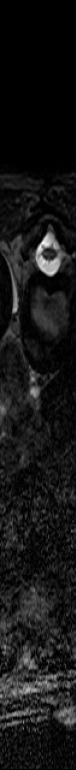
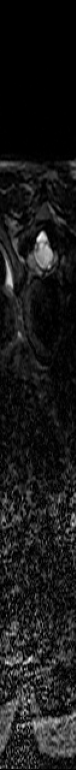
update

diff --git a/web_annotation/app.py b/web_annotation/app.py
@@ -16,16 +16,24 @@ os.makedirs(IMAGES_FOLDER, exist_ok=True)
 app.config['UPLOAD_FOLDER'] = UPLOAD_FOLDER
 app.config['IMAGES_FOLDER'] = IMAGES_FOLDER
 
-def process_nifti(filepath, output_dir):
+def process_nifti(filepath, output_dir, slice_x=None, slice_y=None, slice_z=None):
     """处理NIfTI文件并生成图像"""
     # 加载NIfTI文件
     img = nib.load(filepath)
     data = img.get_fdata()
     
-    # 获取中间切片
-    slice_x = data.shape[0] // 2
-    slice_y = data.shape[1] // 2
-    slice_z = data.shape[2] // 2
+    # 如果没有提供切片索引，则使用中间切片
+    if slice_x is None:
+        slice_x = data.shape[0] // 2
+    if slice_y is None:
+        slice_y = data.shape[1] // 2
+    if slice_z is None:
+        slice_z = data.shape[2] // 2
+    
+    # 确保切片索引在有效范围内
+    slice_x = max(0, min(slice_x, data.shape[0] - 1))
+    slice_y = max(0, min(slice_y, data.shape[1] - 1))
+    slice_z = max(0, min(slice_z, data.shape[2] - 1))
     
     # 生成三个方向的切片图像
     slices = [
@@ -57,7 +65,34 @@ def process_nifti(filepath, output_dir):
         image_paths.append(filename)
         slice_indices.append(slice_index)
     
-    return image_paths, slice_indices
+    return image_paths, slice_indices, [data.shape[0], data.shape[1], data.shape[2]]
+
+@app.route('/update_slice', methods=['POST'])
+def update_slice():
+    """更新切片索引并返回新图像"""
+    data = request.json
+    filename = data.get('filename')
+    slice_x = int(data.get('slice_x'))
+    slice_y = int(data.get('slice_y'))
+    slice_z = int(data.get('slice_z'))
+    
+    filepath = os.path.join(app.config['UPLOAD_FOLDER'], filename)
+    if not os.path.exists(filepath):
+        return jsonify({'error': '文件不存在'})
+    
+    # 处理NIfTI文件并生成新图像
+    image_paths, slice_indices, _ = process_nifti(
+        filepath, 
+        app.config['IMAGES_FOLDER'],
+        slice_x=slice_x,
+        slice_y=slice_y,
+        slice_z=slice_z
+    )
+    
+    return jsonify({
+        'images': image_paths,
+        'slice_indices': slice_indices
+    })
 
 @app.route('/', methods=['GET', 'POST'])
 def index():
@@ -74,7 +109,7 @@ def index():
             file.save(filename)
             
             # 处理NIfTI文件并生成图像
-            image_paths, slice_indices = process_nifti(filename, app.config['IMAGES_FOLDER'])
+            image_paths, slice_indices, dimensions = process_nifti(filename, app.config['IMAGES_FOLDER'])
             
             # 返回包含图像路径的HTML页面
             return render_template_string('''
@@ -92,26 +127,117 @@ def index():
                     .back-btn { background-color: #4CAF50; color: white; padding: 10px 20px; border: none; border-radius: 4px; cursor: pointer; margin-top: 20px; text-decoration: none; display: inline-block; }
                     .back-btn:hover { background-color: #45a049; }
                     .slice-info { font-weight: bold; color: #555; margin-top: 5px; }
+                    .slider-container { margin: 20px 0; }
+                    .slider-label { display: inline-block; width: 80px; text-align: right; margin-right: 10px; }
+                    .slider { width: 300px; }
+                    .loading { display: none; margin: 20px auto; }
                 </style>
+                <script src="https://code.jquery.com/jquery-3.6.0.min.js"></script>
             </head>
             <body>
                 <h1>医学影像查看</h1>
                 <div class="container">
                     <h2>文件: {{ filename }}</h2>
-                    <div class="image-container">
+                    
+                    <div class="slider-container">
+                        <label class="slider-label">X轴切片:</label>
+                        <input type="range" id="slice-x" class="slider" min="0" max="{{ dimensions[0]-1 }}" value="{{ dimensions[0]//2 }}">
+                        <span id="slice-x-value">{{ dimensions[0]//2 }}</span>
+                    </div>
+                    
+                    <div class="slider-container">
+                        <label class="slider-label">Y轴切片:</label>
+                        <input type="range" id="slice-y" class="slider" min="0" max="{{ dimensions[1]-1 }}" value="{{ dimensions[1]//2 }}">
+                        <span id="slice-y-value">{{ dimensions[1]//2 }}</span>
+                    </div>
+                    
+                    <div class="slider-container">
+                        <label class="slider-label">Z轴切片:</label>
+                        <input type="range" id="slice-z" class="slider" min="0" max="{{ dimensions[2]-1 }}" value="{{ dimensions[2]//2 }}">
+                        <span id="slice-z-value">{{ dimensions[2]//2 }}</span>
+                    </div>
+                    
+                    <div class="loading">更新中...</div>
+                    
+                    <div class="image-container" id="image-container">
                         {% for i in range(images|length) %}
                         <div class="image-box">
                             <h3>{{ images[i].split('_')[-1].split('.')[0] }}</h3>
-                            <div class="slice-info">{{ slice_indices[i] }}</div>
-                            <img src="{{ url_for('static', filename='images/' + images[i]) }}" alt="{{ images[i] }}">
+                            <div class="slice-info" id="slice-info-{{ i }}">{{ slice_indices[i] }}</div>
+                            <img src="{{ url_for('static', filename='images/' + images[i]) }}" alt="{{ images[i] }}" id="image-{{ i }}">
                         </div>
                         {% endfor %}
                     </div>
                     <a href="/" class="back-btn">返回上传页面</a>
                 </div>
+                
+                <script>
+                    // 防抖函数
+                    function debounce(func, wait) {
+                        let timeout;
+                        return function() {
+                            const context = this;
+                            const args = arguments;
+                            clearTimeout(timeout);
+                            timeout = setTimeout(() => {
+                                func.apply(context, args);
+                            }, wait);
+                        };
+                    }
+                    
+                    // 更新切片显示
+                    const updateSlices = debounce(function() {
+                        $('.loading').show();
+                        
+                        const sliceX = $('#slice-x').val();
+                        const sliceY = $('#slice-y').val();
+                        const sliceZ = $('#slice-z').val();
+                        
+                        $.ajax({
+                            url: '/update_slice',
+                            type: 'POST',
+                            contentType: 'application/json',
+                            data: JSON.stringify({
+                                filename: '{{ filename }}',
+                                slice_x: sliceX,
+                                slice_y: sliceY,
+                                slice_z: sliceZ
+                            }),
+                            success: function(response) {
+                                // 更新图像
+                                for (let i = 0; i < response.images.length; i++) {
+                                    const imgPath = '/static/images/' + response.images[i] + '?t=' + new Date().getTime();
+                                    $('#image-' + i).attr('src', imgPath);
+                                    $('#slice-info-' + i).text(response.slice_indices[i]);
+                                }
+                                $('.loading').hide();
+                            },
+                            error: function() {
+                                alert('更新切片失败');
+                                $('.loading').hide();
+                            }
+                        });
+                    }, 300);
+                    
+                    // 监听滑块变化
+                    $('#slice-x').on('input', function() {
+                        $('#slice-x-value').text($(this).val());
+                    });
+                    
+                    $('#slice-y').on('input', function() {
+                        $('#slice-y-value').text($(this).val());
+                    });
+                    
+                    $('#slice-z').on('input', function() {
+                        $('#slice-z-value').text($(this).val());
+                    });
+                    
+                    // 滑块停止拖动后更新图像
+                    $('#slice-x, #slice-y, #slice-z').on('change', updateSlices);
+                </script>
             </body>
             </html>
-            ''', filename=file.filename, images=image_paths, slice_indices=slice_indices)
+            ''', filename=file.filename, images=image_paths, slice_indices=slice_indices, dimensions=dimensions)
         else:
             return jsonify({'error': '请上传.nii.gz格式的文件'})
     
